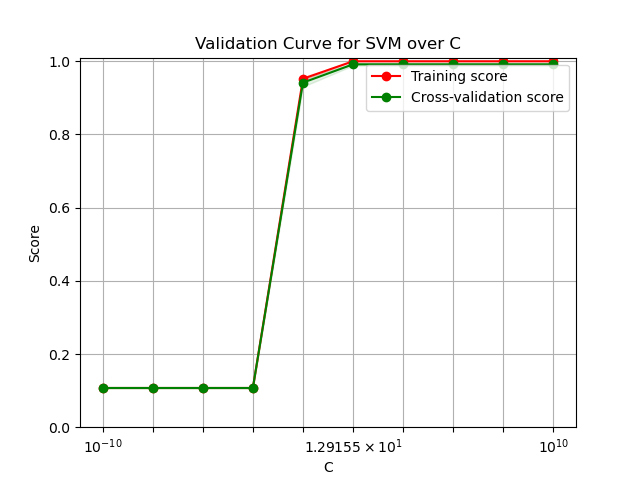
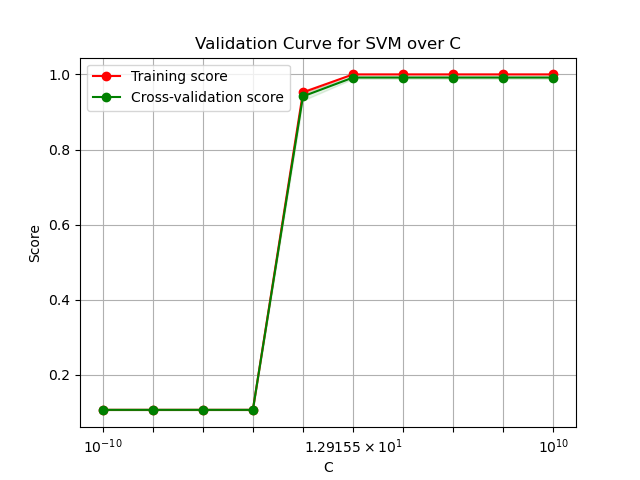
pr1 figure updates

diff --git a/pr1/util.py b/pr1/util.py
@@ -115,7 +115,7 @@ def svm_plot_validation_curve(dataset, clf_dt, X_train, y_train, title, xlabel, 
     plt.xlabel(xlabel)
     plt.ylabel("Score")
     plt.grid()
-    plt.ylim(ylim)
+    # plt.ylim(ylim)
     plt.fill_between(p_range, train_scores_mean - train_scores_std,
                     train_scores_mean + train_scores_std, alpha=0.1,
                     color="r")
